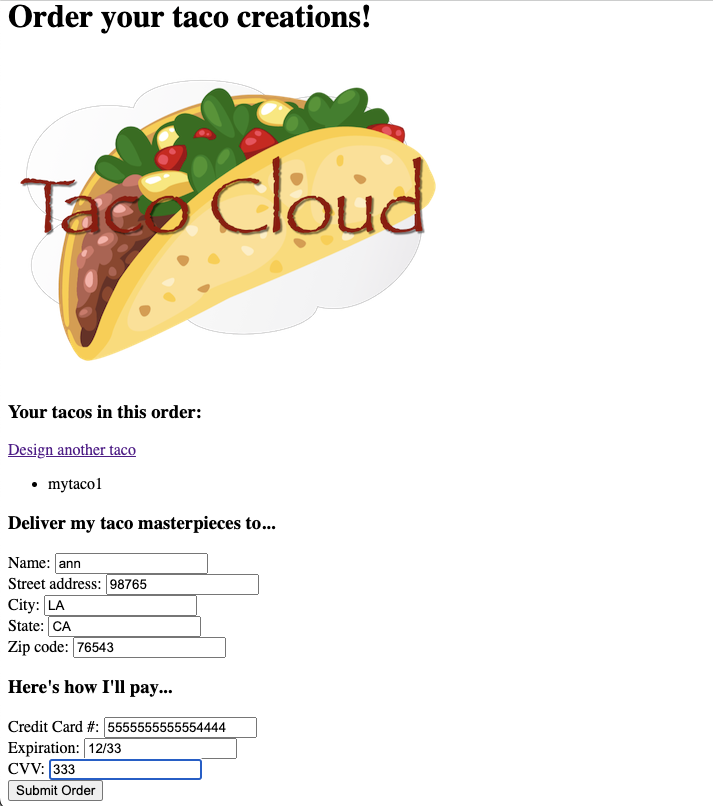
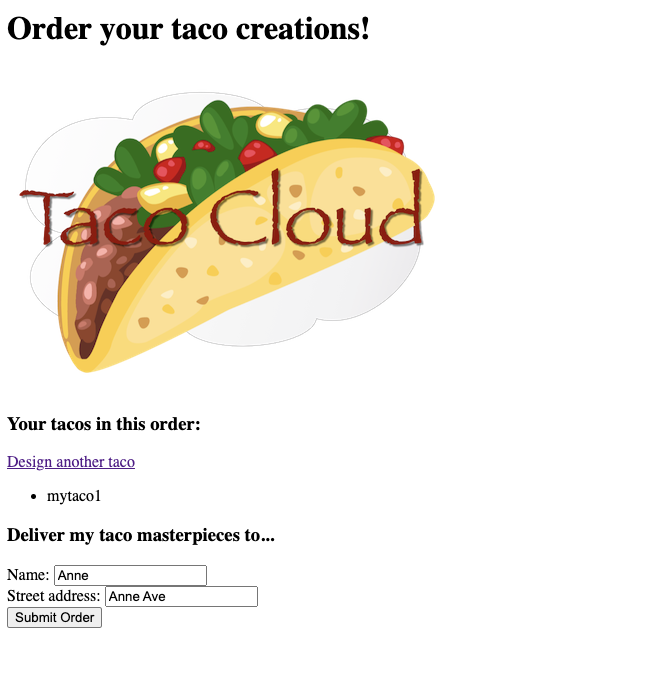
trim taco_order credit card fields

Changed region(s): [[0.0, 0.0935, 0.6647, 1.0], [0.0, 0.0, 0.574, 0.0623], [0.3323, 0.7166, 0.3625, 0.7478]]

diff --git a/src/main/resources/templates/orderForm.html b/src/main/resources/templates/orderForm.html
@@ -40,49 +40,6 @@
             th:errors="*{deliveryStreet}">Street Error</span>
       <br/>
 
-      <label for="deliveryCity">City: </label>
-      <input type="text" th:field="*{deliveryCity}"/>
-      <span class="validationError"
-            th:if="${#fields.hasErrors('deliveryCity')}"
-            th:errors="*{deliveryCity}">City Error</span>
-      <br/>
-
-      <label for="deliveryState">State: </label>
-      <input type="text" th:field="*{deliveryState}"/>
-      <span class="validationError"
-            th:if="${#fields.hasErrors('deliveryState')}"
-            th:errors="*{deliveryState}">State Error</span>
-      <br/>
-
-      <label for="deliveryZip">Zip code: </label>
-      <input type="text" th:field="*{deliveryZip}"/>
-      <span class="validationError"
-            th:if="${#fields.hasErrors('deliveryZip')}"
-            th:errors="*{deliveryZip}">Zip Error</span>
-      <br/>
-
-      <h3>Here's how I'll pay...</h3>
-      <label for="ccNumber">Credit Card #: </label>
-      <input type="text" th:field="*{ccNumber}"/>
-      <span class="validationError"
-            th:if="${#fields.hasErrors('ccNumber')}"
-            th:errors="*{ccNumber}">CC Num Error</span>
-      <br/>
-
-      <label for="ccExpiration">Expiration: </label>
-      <input type="text" th:field="*{ccExpiration}"/>
-      <span class="validationError"
-            th:if="${#fields.hasErrors('ccExpiration')}"
-            th:errors="*{ccExpiration}">CC Num Error</span>
-      <br/>
-
-      <label for="ccCVV">CVV: </label>
-      <input type="text" th:field="*{ccCVV}"/>
-      <span class="validationError"
-            th:if="${#fields.hasErrors('ccCVV')}"
-            th:errors="*{ccCVV}">CC Num Error</span>
-      <br/>
-
       <input type="submit" value="Submit Order"/>
     </form>
 

diff --git a/src/main/java/tacos/data/OrderRepositoryImpl.java b/src/main/java/tacos/data/OrderRepositoryImpl.java
@@ -26,9 +26,8 @@ public class OrderRepositoryImpl implements OrderRepositoryCustomTrace {
 
     @Override
     public void init() {
-        this.saveStatement = session.prepare("INSERT INTO orders (id, deliveryname, deliverystreet, deliverycity, " +
-                "deliverystate, deliveryzip, ccnumber, ccexpiration, cccvv, placedat, tacos)" +
-                "values (?,?,?,?,?,?,?,?,?,?,?)");
+        this.saveStatement = session.prepare("INSERT INTO orders (id, deliveryname, deliverystreet, placedat, tacos)" +
+                "values (?,?,?,?,?)");
 
         String keyspaceName = session.getKeyspace()
                 .orElseThrow(() -> new RuntimeException("Keyspace not found"))
@@ -39,9 +38,9 @@ public class OrderRepositoryImpl implements OrderRepositoryCustomTrace {
 
         UserDefinedType tacoUDT = ksMetaData.getUserDefinedType("taco").get();
         UserDefinedType ingredientUDT = ksMetaData.getUserDefinedType("ingredient").get();
-        
+
         MutableCodecRegistry codecRegistry = (MutableCodecRegistry) session.getContext().getCodecRegistry();
-        
+
         TacoCodec tacoCodec = new TacoCodec(tacoUDT, codecRegistry.codecFor(tacoUDT));
         codecRegistry.register(tacoCodec);
 
@@ -53,8 +52,6 @@ public class OrderRepositoryImpl implements OrderRepositoryCustomTrace {
     public ResultSet saveWithQueryTrace(TacoOrder order) {
         BoundStatement statement = this.saveStatement
                 .bind(order.getId(), order.getDeliveryName(), order.getDeliveryStreet(),
-                        order.getDeliveryCity(), order.getDeliveryState(), order.getDeliveryZip(),
-                        order.getCcNumber(), order.getCcExpiration(), order.getCcCVV(),
                         order.getPlacedAt(), order.getTacos())
                 .setTracing(true);
         return session.execute(statement);

diff --git a/src/main/java/tacos/domain/TacoOrder.java b/src/main/java/tacos/domain/TacoOrder.java
@@ -6,11 +6,8 @@ import java.util.ArrayList;
 import java.util.List;
 import java.util.UUID;
 
-import javax.validation.constraints.Digits;
 import javax.validation.constraints.NotBlank;
-import javax.validation.constraints.Pattern;
 
-import org.hibernate.validator.constraints.CreditCardNumber;
 import org.springframework.data.cassandra.core.mapping.Column;
 import org.springframework.data.cassandra.core.mapping.PrimaryKey;
 import org.springframework.data.cassandra.core.mapping.Table;
@@ -34,23 +31,23 @@ public class TacoOrder implements Serializable {
   @NotBlank(message = "Street is required")
   private String deliveryStreet;
 
-  @NotBlank(message = "City is required")
-  private String deliveryCity;
+  // @NotBlank(message = "City is required")
+  // private String deliveryCity;
 
-  @NotBlank(message = "State is required")
-  private String deliveryState;
+  // @NotBlank(message = "State is required")
+  // private String deliveryState;
 
-  @NotBlank(message = "Zip code is required")
-  private String deliveryZip;
+  // @NotBlank(message = "Zip code is required")
+  // private String deliveryZip;
 
-  @CreditCardNumber(message = "Not a valid credit card number")
-  private String ccNumber;
+  // @CreditCardNumber(message = "Not a valid credit card number")
+  // private String ccNumber;
 
-  @Pattern(regexp = "^(0[1-9]|1[0-2])([\\/])([2-9][0-9])$", message = "Must be formatted MM/YY")
-  private String ccExpiration;
+  // @Pattern(regexp = "^(0[1-9]|1[0-2])([\\/])([2-9][0-9])$", message = "Must be formatted MM/YY")
+  // private String ccExpiration;
 
-  @Digits(integer = 3, fraction = 0, message = "Invalid CVV")
-  private String ccCVV;
+  // @Digits(integer = 3, fraction = 0, message = "Invalid CVV")
+  // private String ccCVV;
 
   @Column("tacos") // <3>
   private List<TacoUDT> tacos = new ArrayList<>();
